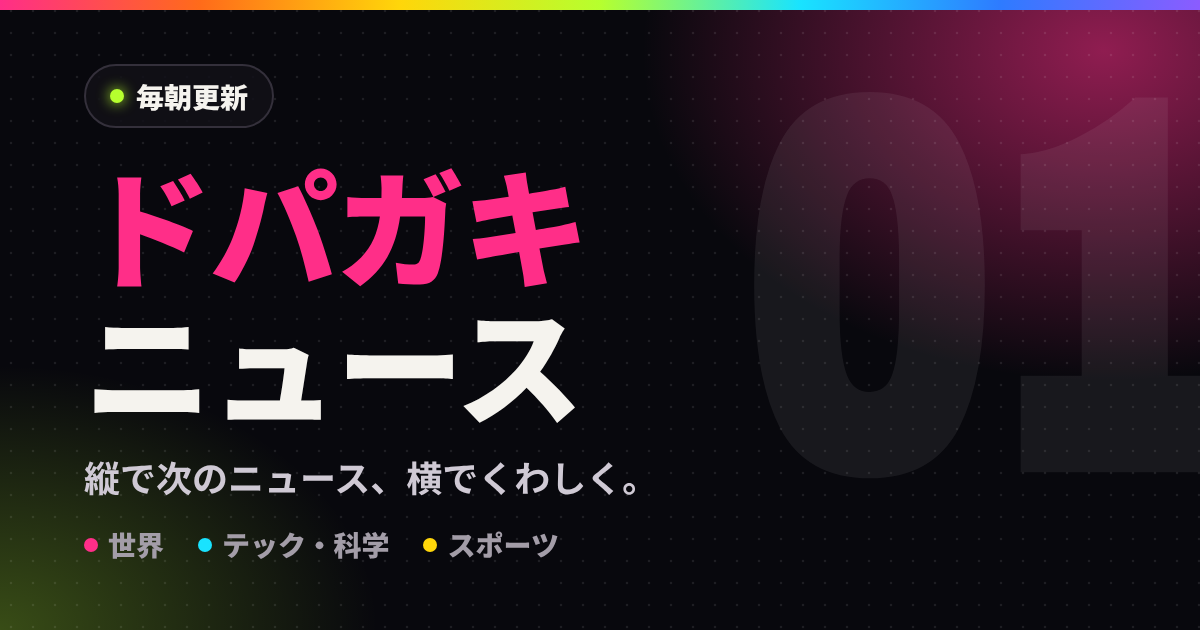
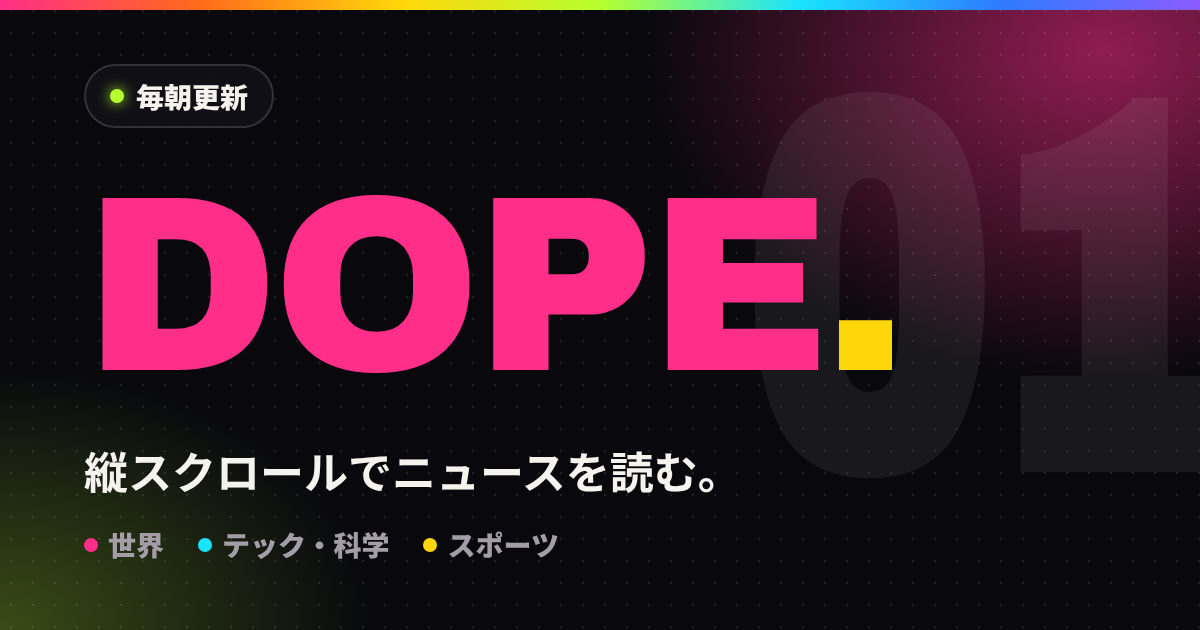
サイト名をDOPEに、キャッチコピーを「縦スクロールでニュースを読む。」に変更
- タイトル・説明文・共有カード（画像を作り直し）・過去号一覧・記事の入口ページを差し替え
- URL（/dopa-news/）はそのまま

Claude-Session: https://claude.ai/code/session_01BF8ohT8KmBvV3abxTzqSLb

Changed region(s): [[0.0617, 0.2714, 0.7708, 0.6937], [0.0617, 0.7238, 0.6167, 0.7841]]

diff --git a/archive/2026-11-25/n11/index.html b/archive/2026-11-25/n11/index.html
@@ -3,11 +3,11 @@
 <head>
 <meta charset="utf-8">
 <meta name="viewport" content="width=device-width,initial-scale=1">
-<title>抗がん剤タキソール、タバコの仲間で生産｜ドパガキニュース</title>
+<title>抗がん剤タキソール、タバコの仲間で生産｜DOPE</title>
 <meta name="description" content="コペンハーゲン大学などの研究チームが、抗がん剤タキソールが作られる仕組みの全体を解き明かし、タバコの仲間の植物に作らせることに成功した。イチイの木に頼ってきた生産を変える可能性がある。">
 <link rel="canonical" href="https://wisteria1004.github.io/dopa-news/archive/2026-11-25/n11/">
 <meta property="og:type" content="article">
-<meta property="og:site_name" content="ドパガキニュース">
+<meta property="og:site_name" content="DOPE">
 <meta property="og:locale" content="ja_JP">
 <meta property="og:title" content="抗がん剤タキソール、タバコの仲間で生産">
 <meta property="og:description" content="コペンハーゲン大学などの研究チームが、抗がん剤タキソールが作られる仕組みの全体を解き明かし、タバコの仲間の植物に作らせることに成功した。イチイの木に頼ってきた生産を変える可能性がある。">
@@ -23,7 +23,7 @@
 </head>
 <body>
 <main>
-<small>ドパガキニュース・11月25日号</small>
+<small>DOPE・11月25日号</small>
 <h1>抗がん剤タキソール、タバコの仲間で生産</h1>
 <p>コペンハーゲン大学などの研究チームが、抗がん剤タキソールが作られる仕組みの全体を解き明かし、タバコの仲間の植物に作らせることに成功した。イチイの木に頼ってきた生産を変える可能性がある。</p>
 <p><a href="../#n11">記事を読む</a></p>

diff --git a/archive/2026-11-25/n10/index.html b/archive/2026-11-25/n10/index.html
@@ -3,11 +3,11 @@
 <head>
 <meta charset="utf-8">
 <meta name="viewport" content="width=device-width,initial-scale=1">
-<title>ティグライ砲撃、戦争犯罪の調査を要求｜ドパガキニュース</title>
+<title>ティグライ砲撃、戦争犯罪の調査を要求｜DOPE</title>
 <meta name="description" content="国際人権団体アムネスティ・インターナショナルは、エチオピア北部のティグライ州アラマタで9月、軍などが住宅街を砲撃し市民14人が死亡したと発表した。戦争犯罪として調べるべきだとしている。">
 <link rel="canonical" href="https://wisteria1004.github.io/dopa-news/archive/2026-11-25/n10/">
 <meta property="og:type" content="article">
-<meta property="og:site_name" content="ドパガキニュース">
+<meta property="og:site_name" content="DOPE">
 <meta property="og:locale" content="ja_JP">
 <meta property="og:title" content="ティグライ砲撃、戦争犯罪の調査を要求">
 <meta property="og:description" content="国際人権団体アムネスティ・インターナショナルは、エチオピア北部のティグライ州アラマタで9月、軍などが住宅街を砲撃し市民14人が死亡したと発表した。戦争犯罪として調べるべきだとしている。">
@@ -23,7 +23,7 @@
 </head>
 <body>
 <main>
-<small>ドパガキニュース・11月25日号</small>
+<small>DOPE・11月25日号</small>
 <h1>ティグライ砲撃、戦争犯罪の調査を要求</h1>
 <p>国際人権団体アムネスティ・インターナショナルは、エチオピア北部のティグライ州アラマタで9月、軍などが住宅街を砲撃し市民14人が死亡したと発表した。戦争犯罪として調べるべきだとしている。</p>
 <p><a href="../#n10">記事を読む</a></p>

diff --git a/archive/2026-11-24/n10/index.html b/archive/2026-11-24/n10/index.html
@@ -3,11 +3,11 @@
 <head>
 <meta charset="utf-8">
 <meta name="viewport" content="width=device-width,initial-scale=1">
-<title>バングラ、ハシナ前首相帰国なら逮捕｜ドパガキニュース</title>
+<title>バングラ、ハシナ前首相帰国なら逮捕｜DOPE</title>
 <meta name="description" content="バングラデシュのシャマ・オバエド外務担当国務相は、インドに逃れているハシナ前首相が帰国すれば直ちに逮捕すると述べた。ハシナ氏は12月の帰国を計画しており、国内では暴力が広がっている。">
 <link rel="canonical" href="https://wisteria1004.github.io/dopa-news/archive/2026-11-24/n10/">
 <meta property="og:type" content="article">
-<meta property="og:site_name" content="ドパガキニュース">
+<meta property="og:site_name" content="DOPE">
 <meta property="og:locale" content="ja_JP">
 <meta property="og:title" content="バングラ、ハシナ前首相帰国なら逮捕">
 <meta property="og:description" content="バングラデシュのシャマ・オバエド外務担当国務相は、インドに逃れているハシナ前首相が帰国すれば直ちに逮捕すると述べた。ハシナ氏は12月の帰国を計画しており、国内では暴力が広がっている。">
@@ -23,7 +23,7 @@
 </head>
 <body>
 <main>
-<small>ドパガキニュース・11月24日号</small>
+<small>DOPE・11月24日号</small>
 <h1>バングラ、ハシナ前首相帰国なら逮捕</h1>
 <p>バングラデシュのシャマ・オバエド外務担当国務相は、インドに逃れているハシナ前首相が帰国すれば直ちに逮捕すると述べた。ハシナ氏は12月の帰国を計画しており、国内では暴力が広がっている。</p>
 <p><a href="../#n10">記事を読む</a></p>

diff --git a/archive/2026-11-25/n12/index.html b/archive/2026-11-25/n12/index.html
@@ -3,11 +3,11 @@
 <head>
 <meta charset="utf-8">
 <meta name="viewport" content="width=device-width,initial-scale=1">
-<title>スウェーデン、組閣難航72日で首相採決へ｜ドパガキニュース</title>
+<title>スウェーデン、組閣難航72日で首相採決へ｜DOPE</title>
 <meta name="description" content="スウェーデン議会のノーレン議長は24日、穏健党のクリステション党首を首相候補に指名し、30日に議会で採決すると発表した。9月の総選挙から72日間、正式な政権がない状態が続いている。">
 <link rel="canonical" href="https://wisteria1004.github.io/dopa-news/archive/2026-11-25/n12/">
 <meta property="og:type" content="article">
-<meta property="og:site_name" content="ドパガキニュース">
+<meta property="og:site_name" content="DOPE">
 <meta property="og:locale" content="ja_JP">
 <meta property="og:title" content="スウェーデン、組閣難航72日で首相採決へ">
 <meta property="og:description" content="スウェーデン議会のノーレン議長は24日、穏健党のクリステション党首を首相候補に指名し、30日に議会で採決すると発表した。9月の総選挙から72日間、正式な政権がない状態が続いている。">
@@ -23,7 +23,7 @@
 </head>
 <body>
 <main>
-<small>ドパガキニュース・11月25日号</small>
+<small>DOPE・11月25日号</small>
 <h1>スウェーデン、組閣難航72日で首相採決へ</h1>
 <p>スウェーデン議会のノーレン議長は24日、穏健党のクリステション党首を首相候補に指名し、30日に議会で採決すると発表した。9月の総選挙から72日間、正式な政権がない状態が続いている。</p>
 <p><a href="../#n12">記事を読む</a></p>

diff --git a/archive/2026-11-25/n13/index.html b/archive/2026-11-25/n13/index.html
@@ -3,11 +3,11 @@
 <head>
 <meta charset="utf-8">
 <meta name="viewport" content="width=device-width,initial-scale=1">
-<title>米、半導体の横流し疑いで7社を規制｜ドパガキニュース</title>
+<title>米、半導体の横流し疑いで7社を規制｜DOPE</title>
 <meta name="description" content="米商務省は23日、エヌビディア製の半導体で計算能力を貸し出すシンガポールのメガスピードに関係する7社を、エンティティー・リストに加えた。中国アリババのシンガポール子会社も含まれる。">
 <link rel="canonical" href="https://wisteria1004.github.io/dopa-news/archive/2026-11-25/n13/">
 <meta property="og:type" content="article">
-<meta property="og:site_name" content="ドパガキニュース">
+<meta property="og:site_name" content="DOPE">
 <meta property="og:locale" content="ja_JP">
 <meta property="og:title" content="米、半導体の横流し疑いで7社を規制">
 <meta property="og:description" content="米商務省は23日、エヌビディア製の半導体で計算能力を貸し出すシンガポールのメガスピードに関係する7社を、エンティティー・リストに加えた。中国アリババのシンガポール子会社も含まれる。">
@@ -23,7 +23,7 @@
 </head>
 <body>
 <main>
-<small>ドパガキニュース・11月25日号</small>
+<small>DOPE・11月25日号</small>
 <h1>米、半導体の横流し疑いで7社を規制</h1>
 <p>米商務省は23日、エヌビディア製の半導体で計算能力を貸し出すシンガポールのメガスピードに関係する7社を、エンティティー・リストに加えた。中国アリババのシンガポール子会社も含まれる。</p>
 <p><a href="../#n13">記事を読む</a></p>

diff --git a/archive/2026-11-24/n12/index.html b/archive/2026-11-24/n12/index.html
@@ -3,11 +3,11 @@
 <head>
 <meta charset="utf-8">
 <meta name="viewport" content="width=device-width,initial-scale=1">
-<title>欧州委へのサイバー攻撃、中国系集団に疑い｜ドパガキニュース</title>
+<title>欧州委へのサイバー攻撃、中国系集団に疑い｜DOPE</title>
 <meta name="description" content="欧州委員会のIT網への侵入が1カ月たっても封じ込められず、中国の支援を受けた集団の関与が疑われているとユーロニュースが報じた。AIで弱点を探すツールが使われたとみられる。">
 <link rel="canonical" href="https://wisteria1004.github.io/dopa-news/archive/2026-11-24/n12/">
 <meta property="og:type" content="article">
-<meta property="og:site_name" content="ドパガキニュース">
+<meta property="og:site_name" content="DOPE">
 <meta property="og:locale" content="ja_JP">
 <meta property="og:title" content="欧州委へのサイバー攻撃、中国系集団に疑い">
 <meta property="og:description" content="欧州委員会のIT網への侵入が1カ月たっても封じ込められず、中国の支援を受けた集団の関与が疑われているとユーロニュースが報じた。AIで弱点を探すツールが使われたとみられる。">
@@ -23,7 +23,7 @@
 </head>
 <body>
 <main>
-<small>ドパガキニュース・11月24日号</small>
+<small>DOPE・11月24日号</small>
 <h1>欧州委へのサイバー攻撃、中国系集団に疑い</h1>
 <p>欧州委員会のIT網への侵入が1カ月たっても封じ込められず、中国の支援を受けた集団の関与が疑われているとユーロニュースが報じた。AIで弱点を探すツールが使われたとみられる。</p>
 <p><a href="../#n12">記事を読む</a></p>

diff --git a/archive/2026-11-25/n04/index.html b/archive/2026-11-25/n04/index.html
@@ -3,11 +3,11 @@
 <head>
 <meta charset="utf-8">
 <meta name="viewport" content="width=device-width,initial-scale=1">
-<title>観測史上最も遠いクエーサーを発見｜ドパガキニュース</title>
+<title>観測史上最も遠いクエーサーを発見｜DOPE</title>
 <meta name="description" content="欧州の宇宙望遠鏡ユークリッドが、これまでで最も遠いクエーサーを見つけた。宇宙誕生から約6億3000万年後の姿で、巨大ブラックホールがなぜこれほど早く育ったのかという謎を深めている。">
 <link rel="canonical" href="https://wisteria1004.github.io/dopa-news/archive/2026-11-25/n04/">
 <meta property="og:type" content="article">
-<meta property="og:site_name" content="ドパガキニュース">
+<meta property="og:site_name" content="DOPE">
 <meta property="og:locale" content="ja_JP">
 <meta property="og:title" content="観測史上最も遠いクエーサーを発見">
 <meta property="og:description" content="欧州の宇宙望遠鏡ユークリッドが、これまでで最も遠いクエーサーを見つけた。宇宙誕生から約6億3000万年後の姿で、巨大ブラックホールがなぜこれほど早く育ったのかという謎を深めている。">
@@ -23,7 +23,7 @@
 </head>
 <body>
 <main>
-<small>ドパガキニュース・11月25日号</small>
+<small>DOPE・11月25日号</small>
 <h1>観測史上最も遠いクエーサーを発見</h1>
 <p>欧州の宇宙望遠鏡ユークリッドが、これまでで最も遠いクエーサーを見つけた。宇宙誕生から約6億3000万年後の姿で、巨大ブラックホールがなぜこれほど早く育ったのかという謎を深めている。</p>
 <p><a href="../#n04">記事を読む</a></p>

diff --git a/archive/2026-11-24/n15/index.html b/archive/2026-11-24/n15/index.html
@@ -3,11 +3,11 @@
 <head>
 <meta charset="utf-8">
 <meta name="viewport" content="width=device-width,initial-scale=1">
-<title>クリケット、インドとNZの初戦は引き分け｜ドパガキニュース</title>
+<title>クリケット、インドとNZの初戦は引き分け｜DOPE</title>
 <meta name="description" content="クリケットのインド対ニュージーランドのテストマッチ第1戦は23日、ニュージーランドが粘って引き分けに終わった。勝てば世界テスト選手権で優位に立てたインドは、勝利を逃した。">
 <link rel="canonical" href="https://wisteria1004.github.io/dopa-news/archive/2026-11-24/n15/">
 <meta property="og:type" content="article">
-<meta property="og:site_name" content="ドパガキニュース">
+<meta property="og:site_name" content="DOPE">
 <meta property="og:locale" content="ja_JP">
 <meta property="og:title" content="クリケット、インドとNZの初戦は引き分け">
 <meta property="og:description" content="クリケットのインド対ニュージーランドのテストマッチ第1戦は23日、ニュージーランドが粘って引き分けに終わった。勝てば世界テスト選手権で優位に立てたインドは、勝利を逃した。">
@@ -23,7 +23,7 @@
 </head>
 <body>
 <main>
-<small>ドパガキニュース・11月24日号</small>
+<small>DOPE・11月24日号</small>
 <h1>クリケット、インドとNZの初戦は引き分け</h1>
 <p>クリケットのインド対ニュージーランドのテストマッチ第1戦は23日、ニュージーランドが粘って引き分けに終わった。勝てば世界テスト選手権で優位に立てたインドは、勝利を逃した。</p>
 <p><a href="../#n15">記事を読む</a></p>

diff --git a/archive/2026-11-25/n16/index.html b/archive/2026-11-25/n16/index.html
@@ -3,11 +3,11 @@
 <head>
 <meta charset="utf-8">
 <meta name="viewport" content="width=device-width,initial-scale=1">
-<title>エストニア、ロシア国境の検問所閉鎖へ｜ドパガキニュース</title>
+<title>エストニア、ロシア国境の検問所閉鎖へ｜DOPE</title>
 <meta name="description" content="エストニア政府はロシアとの国境の道路検問所を12月1日から閉じると決め、ロシア外務省は23日、同国の代理大使を呼んで抗議した。ロシアは「新たな鉄のカーテン」だと反発している。">
 <link rel="canonical" href="https://wisteria1004.github.io/dopa-news/archive/2026-11-25/n16/">
 <meta property="og:type" content="article">
-<meta property="og:site_name" content="ドパガキニュース">
+<meta property="og:site_name" content="DOPE">
 <meta property="og:locale" content="ja_JP">
 <meta property="og:title" content="エストニア、ロシア国境の検問所閉鎖へ">
 <meta property="og:description" content="エストニア政府はロシアとの国境の道路検問所を12月1日から閉じると決め、ロシア外務省は23日、同国の代理大使を呼んで抗議した。ロシアは「新たな鉄のカーテン」だと反発している。">
@@ -23,7 +23,7 @@
 </head>
 <body>
 <main>
-<small>ドパガキニュース・11月25日号</small>
+<small>DOPE・11月25日号</small>
 <h1>エストニア、ロシア国境の検問所閉鎖へ</h1>
 <p>エストニア政府はロシアとの国境の道路検問所を12月1日から閉じると決め、ロシア外務省は23日、同国の代理大使を呼んで抗議した。ロシアは「新たな鉄のカーテン」だと反発している。</p>
 <p><a href="../#n16">記事を読む</a></p>

diff --git a/archive/2026-11-24/n16/index.html b/archive/2026-11-24/n16/index.html
@@ -3,11 +3,11 @@
 <head>
 <meta charset="utf-8">
 <meta name="viewport" content="width=device-width,initial-scale=1">
-<title>コロンビア政府、前大統領のX停止要請｜ドパガキニュース</title>
+<title>コロンビア政府、前大統領のX停止要請｜DOPE</title>
 <meta name="description" content="コロンビア政府は22日、ペトロ前大統領のXアカウントを停止するようX社に要請した。ペトロ氏が現職大統領の辞任を求める行動を呼びかけたためで、前大統領側は検閲だと反発している。">
 <link rel="canonical" href="https://wisteria1004.github.io/dopa-news/archive/2026-11-24/n16/">
 <meta property="og:type" content="article">
-<meta property="og:site_name" content="ドパガキニュース">
+<meta property="og:site_name" content="DOPE">
 <meta property="og:locale" content="ja_JP">
 <meta property="og:title" content="コロンビア政府、前大統領のX停止要請">
 <meta property="og:description" content="コロンビア政府は22日、ペトロ前大統領のXアカウントを停止するようX社に要請した。ペトロ氏が現職大統領の辞任を求める行動を呼びかけたためで、前大統領側は検閲だと反発している。">
@@ -23,7 +23,7 @@
 </head>
 <body>
 <main>
-<small>ドパガキニュース・11月24日号</small>
+<small>DOPE・11月24日号</small>
 <h1>コロンビア政府、前大統領のX停止要請</h1>
 <p>コロンビア政府は22日、ペトロ前大統領のXアカウントを停止するようX社に要請した。ペトロ氏が現職大統領の辞任を求める行動を呼びかけたためで、前大統領側は検閲だと反発している。</p>
 <p><a href="../#n16">記事を読む</a></p>

diff --git a/archive/2026-11-24/n05/index.html b/archive/2026-11-24/n05/index.html
@@ -3,11 +3,11 @@
 <head>
 <meta charset="utf-8">
 <meta name="viewport" content="width=device-width,initial-scale=1">
-<title>イスラエル連立協議、合意なしで終了｜ドパガキニュース</title>
+<title>イスラエル連立協議、合意なしで終了｜DOPE</title>
 <meta name="description" content="イスラエルで組閣を任されたアイゼンコット氏の党と、ネタニヤフ暫定首相のリクードの連立協議が、合意なく終わった。12月6日の期限を前に、少数与党での政権発足も現実味を帯びる。">
 <link rel="canonical" href="https://wisteria1004.github.io/dopa-news/archive/2026-11-24/n05/">
 <meta property="og:type" content="article">
-<meta property="og:site_name" content="ドパガキニュース">
+<meta property="og:site_name" content="DOPE">
 <meta property="og:locale" content="ja_JP">
 <meta property="og:title" content="イスラエル連立協議、合意なしで終了">
 <meta property="og:description" content="イスラエルで組閣を任されたアイゼンコット氏の党と、ネタニヤフ暫定首相のリクードの連立協議が、合意なく終わった。12月6日の期限を前に、少数与党での政権発足も現実味を帯びる。">
@@ -23,7 +23,7 @@
 </head>
 <body>
 <main>
-<small>ドパガキニュース・11月24日号</small>
+<small>DOPE・11月24日号</small>
 <h1>イスラエル連立協議、合意なしで終了</h1>
 <p>イスラエルで組閣を任されたアイゼンコット氏の党と、ネタニヤフ暫定首相のリクードの連立協議が、合意なく終わった。12月6日の期限を前に、少数与党での政権発足も現実味を帯びる。</p>
 <p><a href="../#n05">記事を読む</a></p>

diff --git a/archive/2026-11-25/n01/index.html b/archive/2026-11-25/n01/index.html
@@ -3,11 +3,11 @@
 <head>
 <meta charset="utf-8">
 <meta name="viewport" content="width=device-width,initial-scale=1">
-<title>イラン軍、ホルムズ海峡さらに封鎖を指示｜ドパガキニュース</title>
+<title>イラン軍、ホルムズ海峡さらに封鎖を指示｜DOPE</title>
 <meta name="description" content="イラン軍のハタミ司令官は、米国が条件をのむまでホルムズ海峡を日ごとにさらに閉ざすよう海軍に命じた。仲介役のカタールは、米国とイランの協議を立て直そうと動いている。">
 <link rel="canonical" href="https://wisteria1004.github.io/dopa-news/archive/2026-11-25/n01/">
 <meta property="og:type" content="article">
-<meta property="og:site_name" content="ドパガキニュース">
+<meta property="og:site_name" content="DOPE">
 <meta property="og:locale" content="ja_JP">
 <meta property="og:title" content="イラン軍、ホルムズ海峡さらに封鎖を指示">
 <meta property="og:description" content="イラン軍のハタミ司令官は、米国が条件をのむまでホルムズ海峡を日ごとにさらに閉ざすよう海軍に命じた。仲介役のカタールは、米国とイランの協議を立て直そうと動いている。">
@@ -23,7 +23,7 @@
 </head>
 <body>
 <main>
-<small>ドパガキニュース・11月25日号</small>
+<small>DOPE・11月25日号</small>
 <h1>イラン軍、ホルムズ海峡さらに封鎖を指示</h1>
 <p>イラン軍のハタミ司令官は、米国が条件をのむまでホルムズ海峡を日ごとにさらに閉ざすよう海軍に命じた。仲介役のカタールは、米国とイランの協議を立て直そうと動いている。</p>
 <p><a href="../#n01">記事を読む</a></p>
